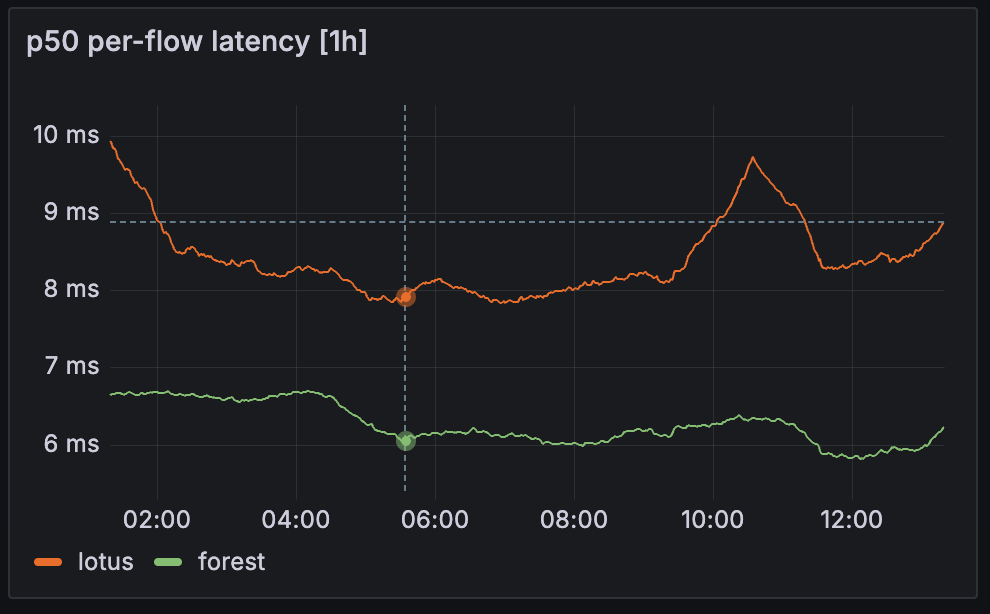
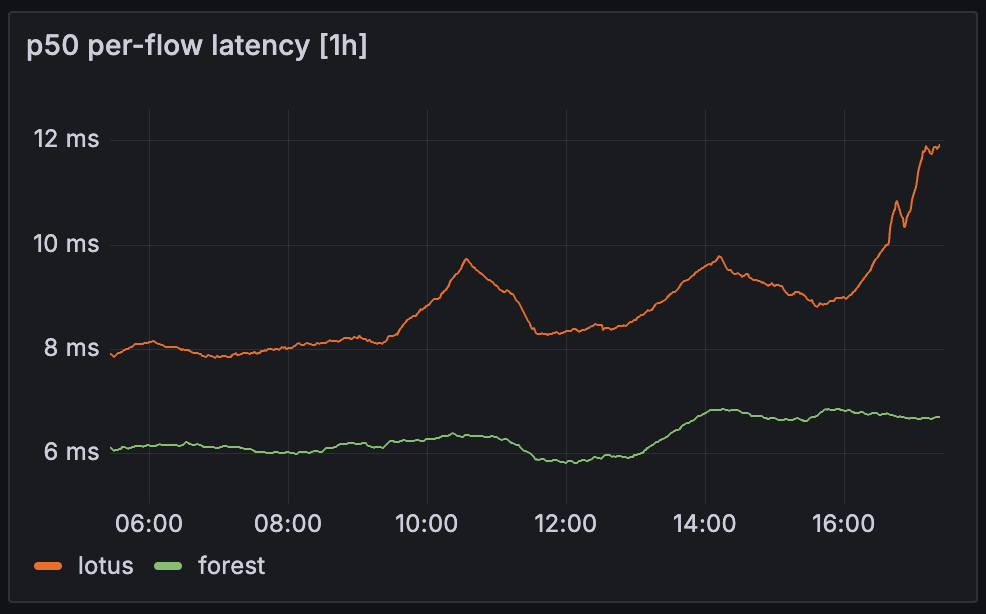
fmt

diff --git a/docs/docs/users/reports/node_comparison.md b/docs/docs/users/reports/node_comparison.md
@@ -5,7 +5,8 @@ title: Node Comparison
 
 # Node Comparison: Forest vs Lotus
 
-This report compares Forest against Lotus while both nodes serve the same real RPC provider traffic. Because the two nodes handled an almost identical request stream during the measurement window, the differences below reflect the nodes themselves rather than uneven load.
+This report compares Forest against Lotus while both nodes serve the similar real RPC provider traffic. Because the two nodes handled an almost identical request stream during the measurement window, the differences below reflect the nodes themselves rather than uneven load.
+
 ## Environment
 
 The comparison covers Lotus `1.36.1-rc1` and Forest `0.33.8`.
@@ -20,7 +21,7 @@ The clearest difference is in response latency. Forest keeps the average wall ti
 
 ### Per-flow latency
 
-At the median (P50), the two nodes are close: Forest hovers around ~6 ms versus ~8-10 ms for Lotus. The gap widens sharply in the tail. At P95, Forest stays flat near ~25 ms while Lotus baselines around ~90 ms and spikes toward ~450-470 ms under pressure. At P99, Forest holds around ~150 ms while Lotus ranges from ~500 ms up to ~1.6 s. In practice this means the slow requests that hurt reliability the most are far rarer on Forest.
+At the median (P50), the two nodes are close: Forest hovers around ~6-7 ms versus ~8-12 ms for Lotus. The gap widens sharply in the tail. At P95, Forest stays flat near ~25 ms while Lotus baselines around ~90 ms and spikes toward ~450-470 ms under pressure. At P99, Forest holds around ~150 ms while Lotus ranges from ~500 ms up to ~1.6 s. In practice this means the slow requests that hurt reliability the most are far rarer on Forest.
 
 <p align="center">
   <img
@@ -106,7 +107,7 @@ The absolute memory figures are higher than they appear here because of OS page 
 
 ## Snapshot export comparison
 
-Snapshot export is another area where the performance work pays off. On a regular machine, Forest completes a basic chain snapshot export dramatically faster than Lotus, and with a fraction of the memory.
+Snapshot export is another area where the performance work pays off. Forest plays an important role in timely, efficient network snapshot generation: while it is possible to generate a snapshot with Lotus, doing so is significantly slower and more expensive. On a regular machine, Forest completes a basic chain snapshot export dramatically faster than Lotus, and with a fraction of the memory.
 
 <p align="center">
   <img
@@ -116,10 +117,16 @@ Snapshot export is another area where the performance work pays off. On a regula
   />
 </p>
 
-Forest `0.33.6` finished the export in 34 minutes using 32 GiB of RAM. Lotus `1.36.0` took 450 minutes (about `13x` slower) with 128 GiB, and 232 minutes (about `7x` slower) even with 256 GiB.
+Forest `0.33.6` finished the export in 34 minutes using 32 GiB of RAM. Lotus `1.36.0` took 450 minutes (about `13x` slower) with 128 GiB, and 232 minutes (about `7x` slower) even with 256 GiB. Forest also needs less than half the disk space for the resulting snapshot. The table below compares a basic snapshot export across implementations.
+
+|        | Required disk space [GiB] | RAM [GiB] | Export duration [minutes] |
+| ------ | ------------------------- | --------- | ------------------------- |
+| Forest | 200                       | 32        | 34                        |
+| Lotus  | 450                       | 128       | 450                       |
+| Lotus  | 450                       | 256       | 232                       |
 
 :::note
-Lotus snapshots are uncompressed, whereas Forest compresses them automatically as part of the export. Both nodes can consume compressed snapshots, which meaningfully lowers storage costs. Compressing a Lotus snapshot after the fact is possible, but it would only add to the already longer export time.
+Lotus snapshots are also not compressed; Forest does it under the hood. Both implementations are able to consume compressed snapshots. This significantly reduces the cost of storing snapshots. While it’s possible to compress the snapshot after it’s been generated, it would increase the operation duration even further.
 :::
 
 ## Key takeaways